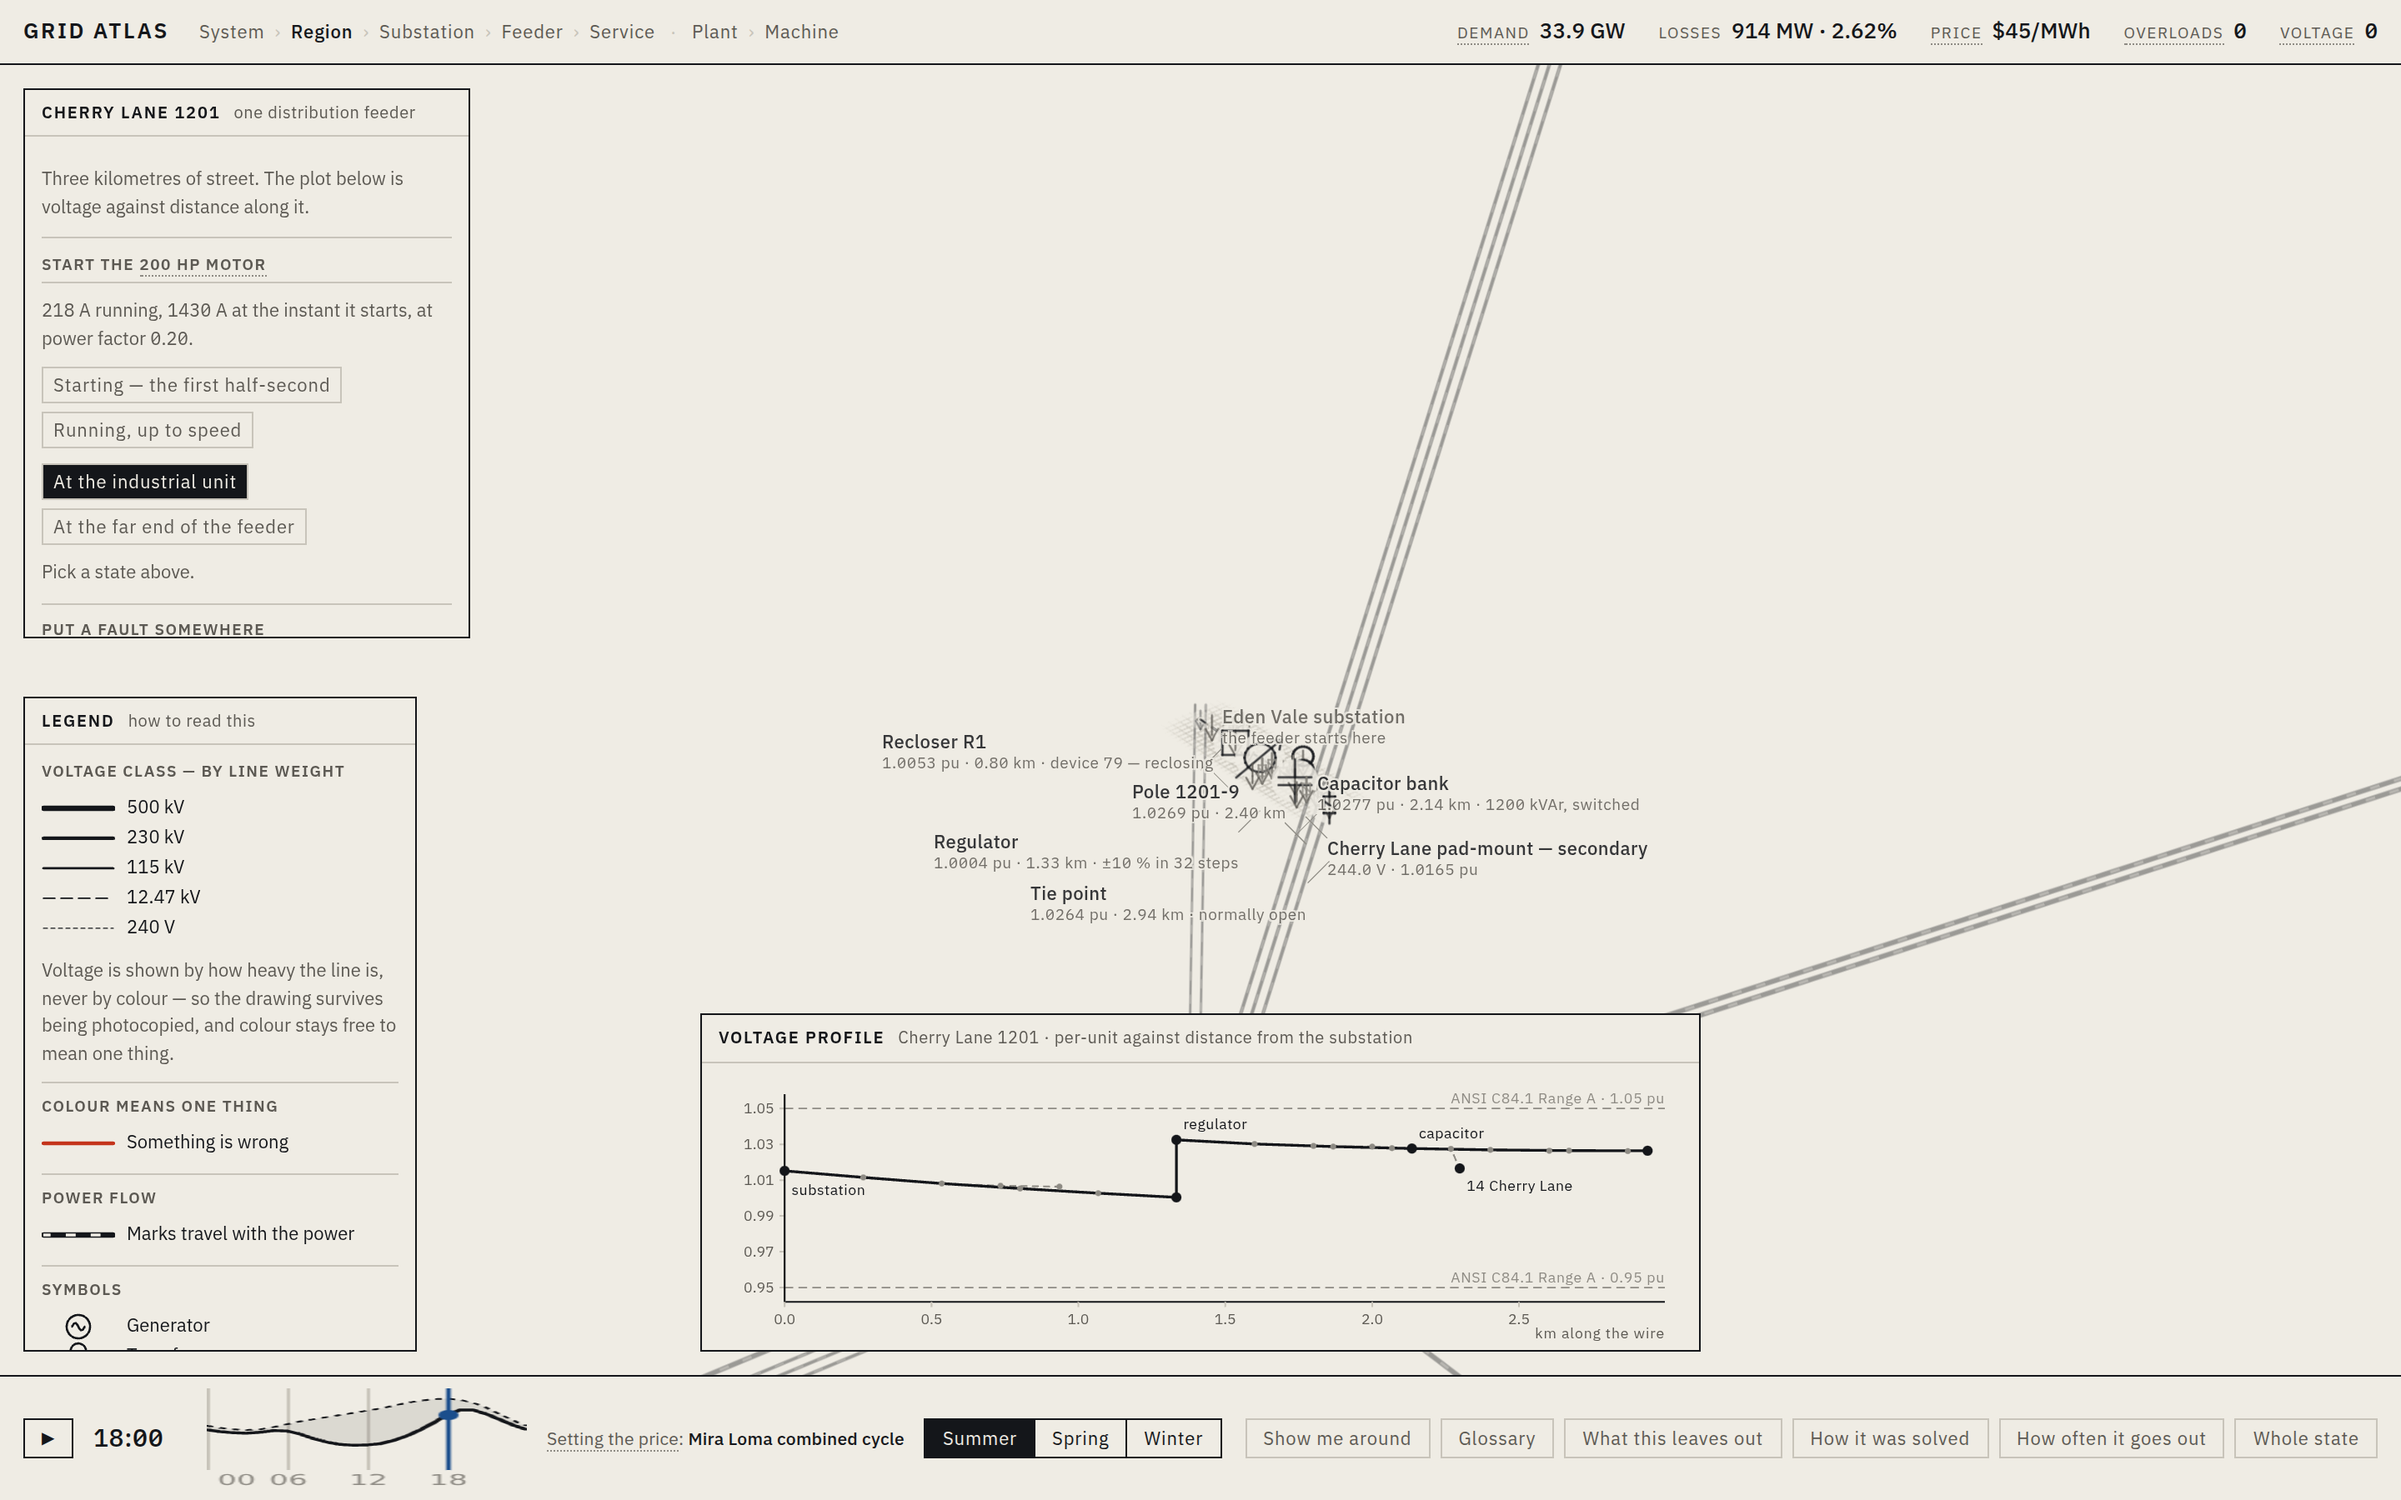
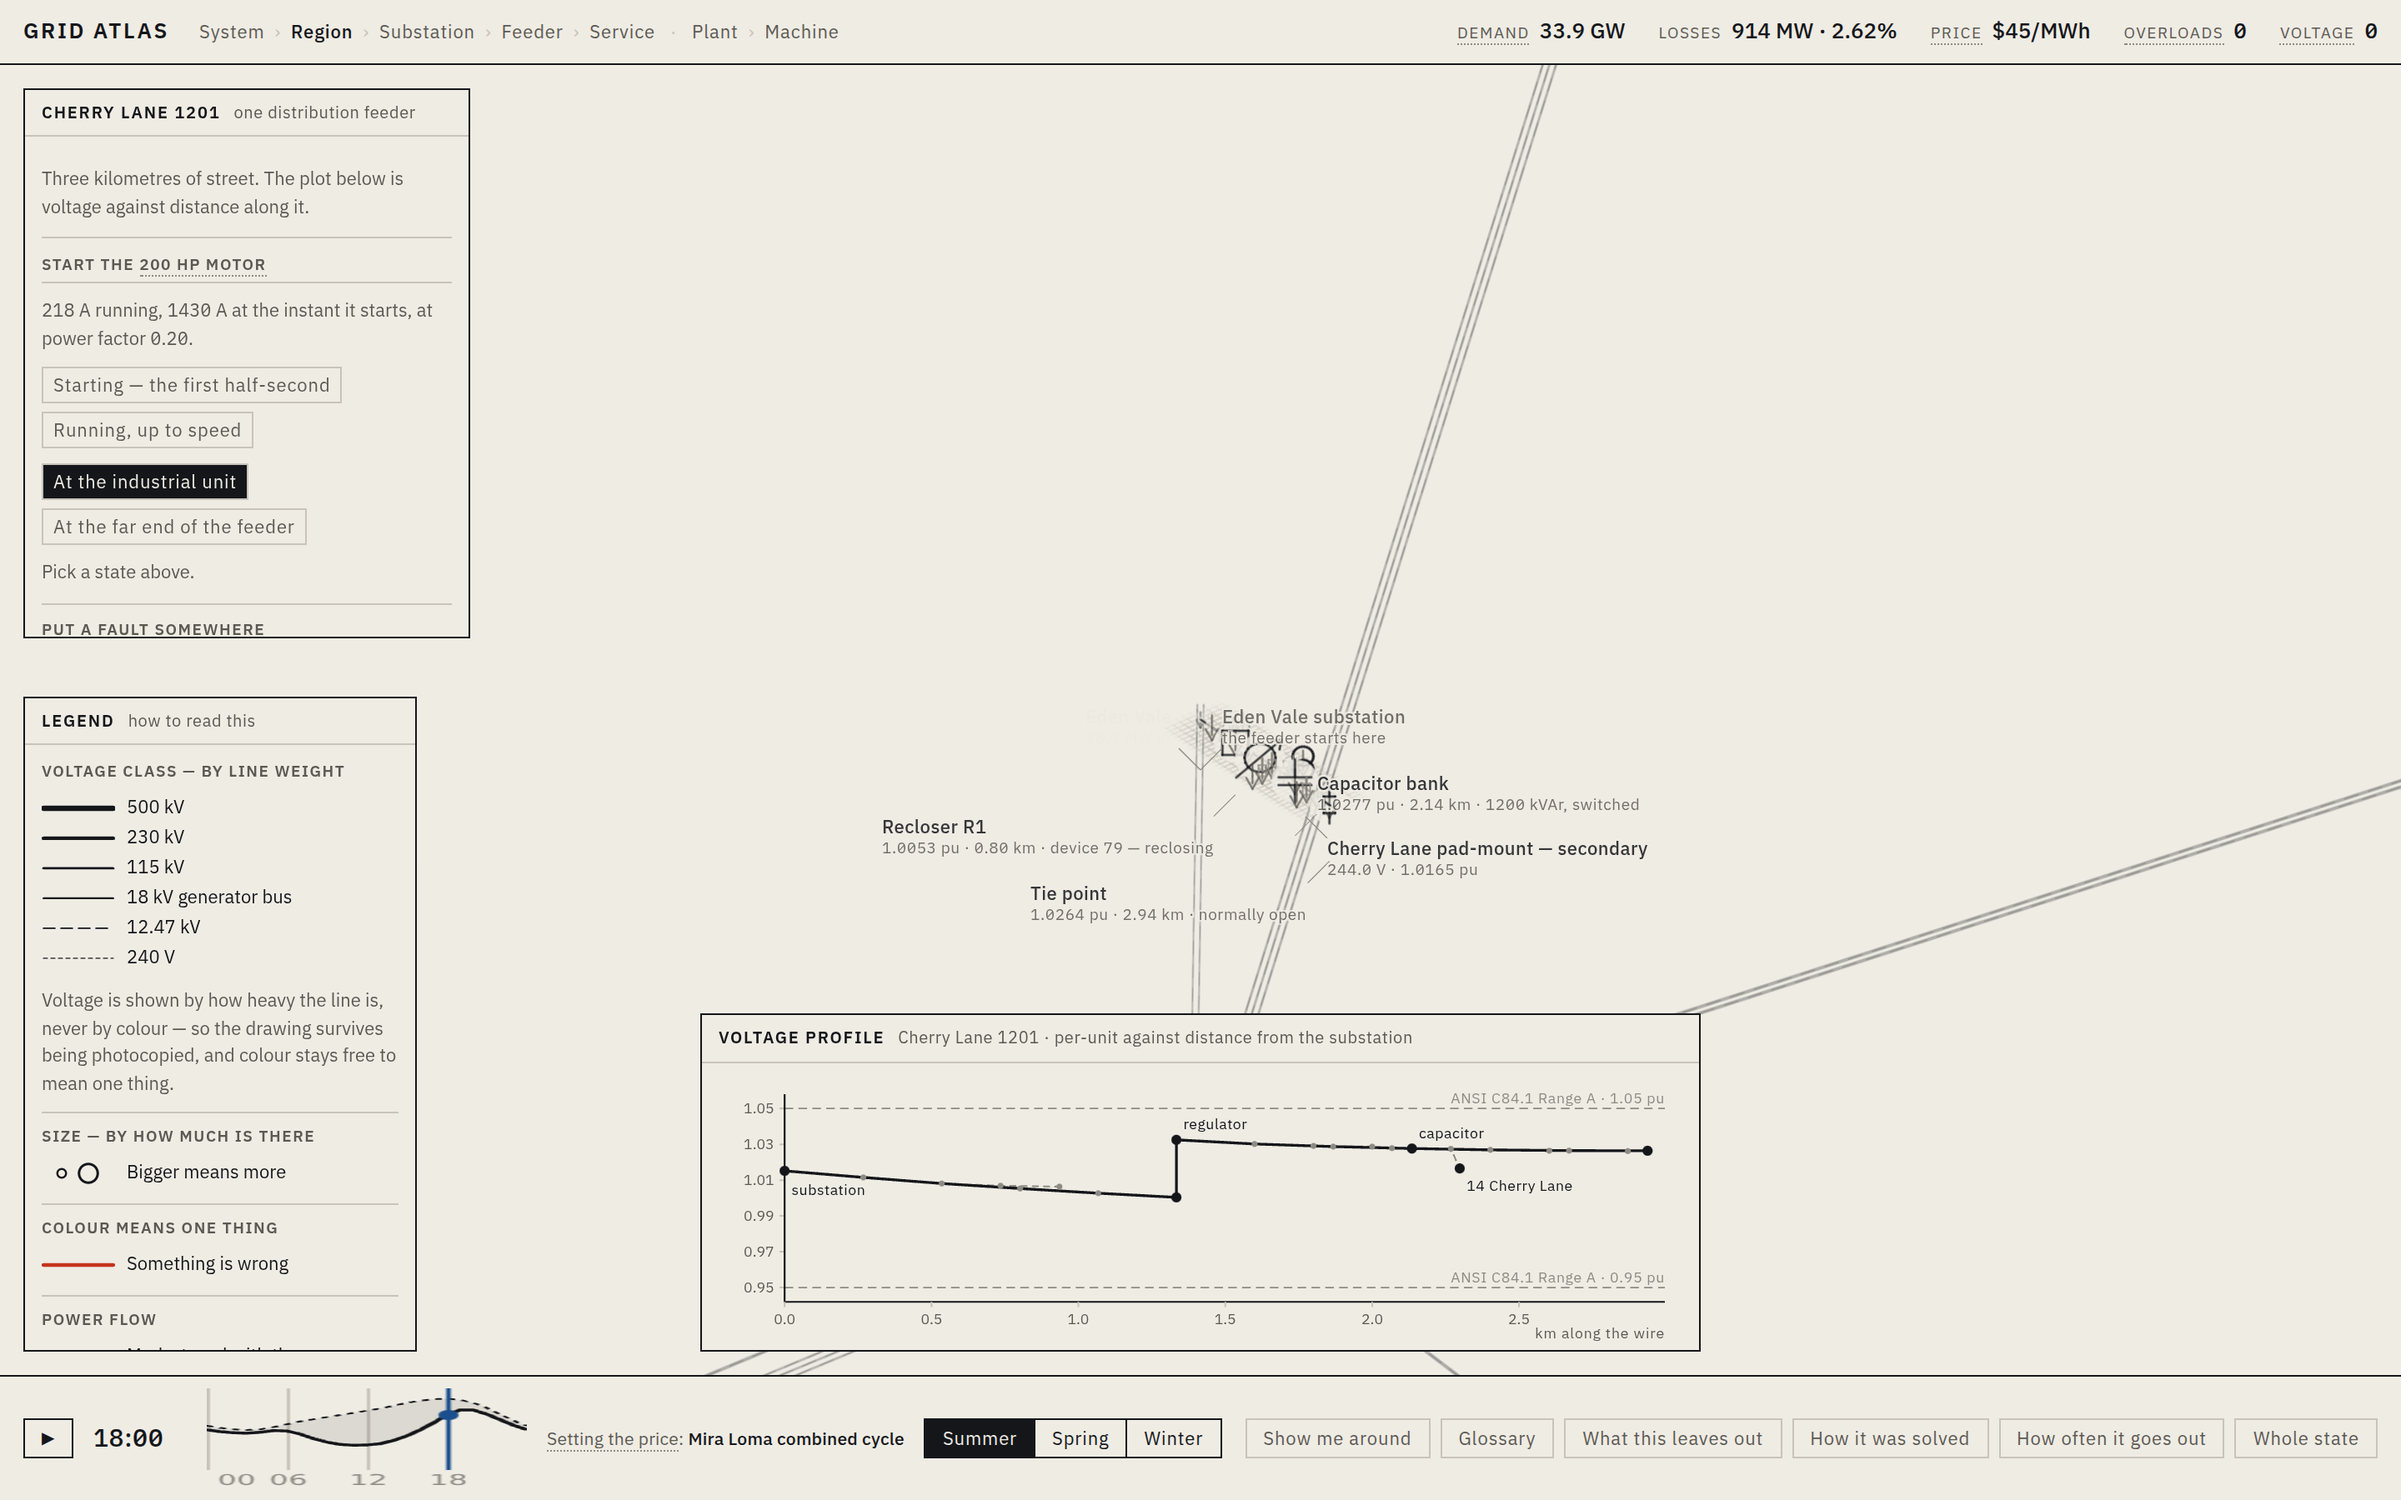
The approach, the house, and a day that cannot be squeezed out
A FADING DRAWING NOW THINS, NOT ONLY PALES. Half-way through the hand-over
from the transmission network to the feeder, the 500 kV lines were still at
full width — two forty-pixel grey bands crossing a page whose subject was
three kilometres of street. Pale wide bands read as damage. Line weight and
the gap between parallel circuits now scale with the scene's own opacity, so
the transition reads as one drawing dissolving into another.

FEEDER CAPTIONS WAIT FOR ROOM. Far out, the whole feeder is a smudge a
hundred pixels across, and naming all twenty poles produced six captions on
long leaders reaching into empty paper. Only the equipment keeps a name until
the poles are far enough apart to point at: twenty-five labels down to nine
on the approach, with full detail unchanged once you arrive.

THE HOUSE IS A HOUSE. The end of the chain — the thing the whole zoom travels
towards — was a footprint and four stubs, indistinguishable from any other
house on the street now that the street is drawn. It is now an axonometric
cutaway: footprint, wall plate, corner posts, ridge and rafters. Still the
lightest weight in the drawing, because the wiring is the subject, but enough
of a building that the socket is plainly inside one.

AND THE DAY STOPPED COLLAPSING. With six buttons in the footer the time
scrubber was flexed down to a 230-pixel stub at ordinary window widths, which
is the difference between a scrubbable day and a decoration. It now claims
[…]

diff --git a/src/render/scene-service.ts b/src/render/scene-service.ts
@@ -172,21 +172,48 @@ export function drawService(
   const pos = new Map<string, Vector3>();
   for (const n of SERVICE_NODES) pos.set(n.id, serviceNodePosition(n));
 
-  // --- the house, as a construction outline -------------------------------
+  // --- the house, as a cutaway ---------------------------------------------
+  //
+  // It used to be a footprint and four stubs, which against the neighbourhood
+  // drawn behind it was indistinguishable from any other house on the street —
+  // so the end of the chain, the thing the whole zoom is travelling towards,
+  // happened in a void.
+  //
+  // Now it is an axonometric cutaway: footprint, wall plate, corner posts and
+  // a ridge. Still the lightest weight in the drawing, because the wiring is
+  // the subject and a building drawn in full would outweigh every wire in it —
+  // but enough of a building that the socket is plainly IN one.
   const o = SERVICE_ORIGIN;
-  for (let i = 0; i + 1 < HOUSE.length; i++) {
-    const a = new Vector3(o.x + HOUSE[i][0], 0, o.z - HOUSE[i][1]);
-    const b = new Vector3(o.x + HOUSE[i + 1][0], 0, o.z - HOUSE[i + 1][1]);
-    mark({
-      a: [a.x, 0, a.z], b: [b.x, 0, b.z],
-      widthPx: 0.9, color: INK.inkGhost,
-    }, Number.MAX_SAFE_INTEGER - 20);
-    // Just the corner posts, not the whole box. A building drawn in full
-    // outweighs every wire inside it, and the wires are the subject.
-    mark({
-      a: [a.x, 0, a.z], b: [a.x, 2.4, a.z],
-      widthPx: 0.7, color: INK.inkGhost,
-    }, Number.MAX_SAFE_INTEGER - 19);
+  const WALL_M = 2.7;
+  const RIDGE_M = 4.3;
+  const corners = HOUSE.slice(0, 4).map(([hx, hz]) =>
+    new Vector3(o.x + hx, 0, o.z - hz));
+  const houseDepth = Number.MAX_SAFE_INTEGER - 20;
+  const ghost = (a: Vector3, b: Vector3, widthPx: number, d: number): void => {
+    mark({ a: [a.x, a.y, a.z], b: [b.x, b.y, b.z], widthPx, color: INK.inkGhost }, d);
+  };
+  for (let i = 0; i < 4; i++) {
+    const a = corners[i];
+    const b = corners[(i + 1) % 4];
+    // Footprint on the ground, and the plate the roof sits on.
+    ghost(a, b, 1.0, houseDepth);
+    ghost(
+      new Vector3(a.x, WALL_M, a.z), new Vector3(b.x, WALL_M, b.z), 0.8, houseDepth - 1);
+    // The corner post between them.
+    ghost(a, new Vector3(a.x, WALL_M, a.z), 0.8, houseDepth - 1);
+  }
+  // A ridge down the long axis, with a rafter to each gable corner: the least
+  // that reads unmistakably as a roof.
+  const mid = (p: Vector3, q: Vector3, y: number): Vector3 =>
+    new Vector3((p.x + q.x) / 2, y, (p.z + q.z) / 2);
+  const ridgeA = mid(corners[0], corners[3], RIDGE_M);
+  const ridgeB = mid(corners[1], corners[2], RIDGE_M);
+  ghost(ridgeA, ridgeB, 0.9, houseDepth - 2);
+  for (const [c, r] of [
+    [corners[0], ridgeA], [corners[3], ridgeA],
+    [corners[1], ridgeB], [corners[2], ridgeB],
+  ] as [Vector3, Vector3][]) {
+    ghost(new Vector3(c.x, WALL_M, c.z), r, 0.7, houseDepth - 2);
   }
 
   // --- grade, as a hairline, so "buried" reads as buried ------------------

diff --git a/src/render/scene-system.ts b/src/render/scene-system.ts
@@ -357,6 +357,16 @@ export function drawSystem(
   };
 
   const haloPad = options.haloPad ?? HALO_PAD_PX;
+
+  // A DRAWING THAT IS FADING SHOULD THIN, NOT ONLY PALE.
+  //
+  // Halfway through the hand-over to the feeder the transmission lines were
+  // still at full width, so a 500 kV pair came out as two forty-pixel grey
+  // bands crossing a page whose subject was three kilometres of street. Pale
+  // wide bands read as damage. Narrowing them as they go — and collapsing the
+  // gap between parallel circuits at the same time — makes the transition read
+  // as one drawing dissolving into another, which is what it is.
+  const fadeWeight = 0.35 + 0.65 * (options.opacity ?? 1);
   for (const c of geometry.circuits) {
     if (options.onlyKV != null && Math.abs(c.kV - options.onlyKV) > 1) continue;
     if (offScreen(c.a, c.b)) continue;
@@ -372,7 +382,7 @@ export function drawSystem(
     // not perpendicular to it on the page, and the circuits fan out instead of
     // running parallel. Project the route, take the perpendicular there, then
     // map that screen offset back to the ground through the camera basis.
-    const offPx = circuitOffsetPx(c.index, c.total);
+    const offPx = circuitOffsetPx(c.index, c.total) * fadeWeight;
     let ox = 0;
     let oz = 0;
     if (offPx !== 0) {
@@ -396,7 +406,7 @@ export function drawSystem(
     const isHovered = hovered === c.branch.id;
 
     const color = over || isOut ? SIGNAL.alarm : isSelected ? SELECTION.stroke : INK.ink;
-    const width = cls.weightPx * (isSelected || isHovered ? 1.7 : 1);
+    const width = cls.weightPx * fadeWeight * (isSelected || isHovered ? 1.7 : 1);
     // An out-of-service circuit is drawn as a fine dotted line: still there,
     // plainly not carrying anything.
     const dash: [number, number] | undefined =

diff --git a/src/app/styles.css b/src/app/styles.css
@@ -216,6 +216,10 @@ html, body {
   grid-row: 3;
   display: flex;
   align-items: center;
+  /* On a narrow window the buttons drop to their own row rather than
+     squeezing the day into a stub. The day is a control; they are doors. */
+  flex-wrap: wrap;
+  row-gap: 7px;
   gap: 14px;
   padding: 7px var(--pad);
   border-top: var(--rule-strong);
@@ -418,7 +422,11 @@ button, select, input {
 
 .scrub__track {
   position: relative;
-  flex: 1;
+  /* The day is the one control that must never be squeezed out. With six
+     buttons in the footer a plain flex:1 let it collapse to a stub, which is
+     the difference between a scrubbable day and a decoration. */
+  flex: 1 1 420px;
+  min-width: 400px;
   height: 60px;
   cursor: ew-resize;
   touch-action: none;
@@ -625,7 +633,15 @@ button, select, input {
 /* Footer controls and scrubber extras                                    */
 /* --------------------------------------------------------------------- */
 
-.footer__controls { display: flex; gap: 6px; align-items: center; }
+.footer__controls {
+  display: flex;
+  gap: 6px;
+  align-items: center;
+  flex: 0 0 auto;
+  flex-wrap: wrap;
+  justify-content: flex-end;
+  margin-left: auto;
+}
 
 .scrub__play {
   width: 30px;
@@ -639,7 +655,8 @@ button, select, input {
   font-size: 10.5px;
   color: var(--ink-muted);
   flex: 0 1 auto;
-  min-width: 190px;
+  /* Shrinkable: the price-setting note is useful but it is not the day. */
+  min-width: 120px;
   max-width: 340px;
   line-height: 1.35;
   letter-spacing: 0.01em;

diff --git a/src/render/scene-feeder.ts b/src/render/scene-feeder.ts
@@ -471,7 +471,21 @@ export function drawFeeder(
     }
 
     // --- labels -------------------------------------------------------------
+    //
+    // Detail waits until there is room for it. Far out, the whole feeder is a
+    // smudge a hundred pixels across and naming all twenty poles produces six
+    // captions on long leaders reaching into empty paper — which is what made
+    // the approach to the feeder look broken. Only the pieces of equipment
+    // keep a name until the poles are far enough apart to point at.
+    const spacious = camera.metresPerPixel < 8;
     if (!bus) continue;
+    if (!spacious && !kit && !isSelected && !isHovered && node.id !== 'SVC_LV') {
+      picks.push({
+        id: node.id, kind: 'site', world: top.clone(),
+        radiusPx: LAYOUT.pickRadiusPx * 0.9,
+      });
+      continue;
+    }
     const km = node.distanceKm ?? 0;
     const live = node.id === 'SVC_LV'
       ? `${(bus.vpu * 240).toFixed(1)} V · ${bus.vpu.toFixed(4)} pu`
